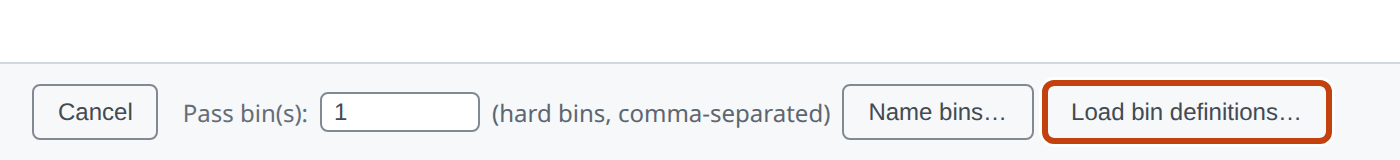
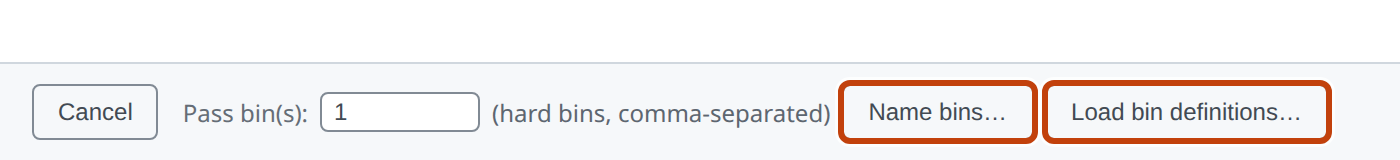
Add a log right-click menu and optimise dev builds
Right-clicking the log panel offers Select all and Copy all. The dev profile now optimises the parser crate and its dependencies, so a development run times like the app. The toolbar's Preferences and Help buttons are right-aligned before the script runs, and lesson 12's mapping screenshot outlines Name bins….

Changed region(s): [[0.5836, 0.5, 0.7679, 0.9062]]

diff --git a/src/logContextMenu.ts b/src/logContextMenu.ts
@@ -1,0 +1,59 @@
+// Right-click menu for the log panel: Select all and Copy all. The panel is a short scrolling box, so dragging a
+// selection over a long load log is awkward, and the log is what a bug report needs pasted whole.
+
+import { openAnchoredMenu, makeMenuRow } from './anchoredMenu';
+
+/** Select every entry in the log, so the reader can copy it with the keyboard or a native shortcut. */
+function selectAllEntries(list: HTMLElement): void {
+  const selection = window.getSelection();
+  if (!selection) return;
+  const range = document.createRange();
+  range.selectNodeContents(list);
+  selection.removeAllRanges();
+  selection.addRange(range);
+}
+
+/** The log as plain text, one entry a line. */
+function logText(list: HTMLElement): string {
+  return Array.from(list.children, entry => entry.textContent ?? '').join('\n');
+}
+
+async function copyAllEntries(list: HTMLElement): Promise<void> {
+  const text = logText(list);
+  try {
+    await navigator.clipboard.writeText(text);
+  } catch {
+    // No async clipboard in this webview: select the entries and let the browser's own copy command do it.
+    selectAllEntries(list);
+    document.execCommand('copy');
+  }
+}
+
+/**
+ * Open the menu at the pointer on a right-click anywhere in `panel`. The anchored menu hangs off an element, so a
+ * zero-size one is placed at the pointer and removed when the menu closes.
+ */
+export function wireLogContextMenu(panel: HTMLElement, list: HTMLElement): void {
+  let close: (() => void) | null = null;
+  panel.addEventListener('contextmenu', e => {
+    e.preventDefault();
+    close?.();
+    const at = document.createElement('div');
+    at.style.cssText = `position:fixed;left:${e.clientX}px;top:${e.clientY}px;width:0;height:0;pointer-events:none;`;
+    document.body.appendChild(at);
+    const empty = list.childElementCount === 0;
+    close = openAnchoredMenu(at, { stack: true, minWidth: '160px', onClose: () => { close = null; at.remove(); } }, (popup, dismiss) => {
+      popup.setAttribute('role', 'menu');
+      popup.appendChild(makeMenuRow(dismiss, {
+        label: 'Select all', enabled: !empty,
+        hint: empty ? 'The log is empty' : 'Select every entry in the log, ready to copy',
+        onClick: () => selectAllEntries(list),
+      }));
+      popup.appendChild(makeMenuRow(dismiss, {
+        label: 'Copy all', enabled: !empty,
+        hint: empty ? 'The log is empty' : 'Copy every entry in the log to the clipboard, one per line',
+        onClick: () => { void copyAllEntries(list); },
+      }));
+    });
+  });
+}

diff --git a/index.html b/index.html
@@ -1179,6 +1179,10 @@
       /* The right-hand group must never be the thing that scrolls out of view,
          so it can't shrink; everything to its left yields first. */
       #theme-select, #preferences-btn, #help-btn { flex-shrink: 0; }
+      /* Preferences starts the right-hand group until the theme picker (added by main.ts, which then carries the auto
+         margin itself) is in front of it, so the group is right-aligned before the script has run. */
+      #preferences-btn { margin-left: auto; }
+      #theme-select + #preferences-btn { margin-left: 0; }
       #toolbar-title { font-weight: 600; color: var(--text-secondary); margin-right: 4px; }
       @media (max-width: 1100px) { #drop-hint { display: none; } }
       @media (max-width: 700px)  { #toolbar-title { display: none; } }

diff --git a/src/main.ts b/src/main.ts
@@ -59,6 +59,7 @@ import { rememberSelection } from './testSelectionMemory';
 import { initPwa } from './pwa';
 import { TSMAP_GUIDE_HTML } from './guideExtension';
 import { UnseenProblems } from './logBadge';
+import { wireLogContextMenu } from './logContextMenu';
 import { session } from './session';
 import { runLoad, type LoadDeps, type LoadPhase, type SelectorResult } from './loadPipeline';
 
@@ -366,6 +367,7 @@ function log(level: LogLevel, msg: string) {
   else renderLogToggle();
 }
 
+wireLogContextMenu(logPanel, logList);
 const unseenProblems = new UnseenProblems();
 
 function renderLogToggle(): void {

diff --git a/CHANGELOG.md b/CHANGELOG.md
@@ -8,6 +8,7 @@ technical record, including internal changes.
 
 ### Added
 
+- **Right-click the log for Select all and Copy all.** The menu opens where you click in the log panel; **Copy all** puts every entry on the clipboard, one per line, ready to paste into a bug report.
 - **Bin definitions are edited in a table.** **Setup ▾ → Bin definitions…** lists every hard and soft bin the lot has, with its die count, a name, a pass toggle for hard bins and a colour. Edited rows are marked and each has a **Revert** button; ticked rows can be marked pass or fail together. **Load…** reads a definitions file into the table as edits, so it can be checked before **Apply**. A changed pass flag shows the lot's yield now and with the new pass bins, asks for confirmation and is logged; the die counts and yield are the map's own (retests by your policy, partial and edge-excluded dies left out). It applies to every loaded file, including a file that stated its own pass bins, and a bin the files disagreed about reads **Mixed** until you choose Pass or Fail for it.
 - **Saved settings can be exported and imported.** **Preferences → Export or import settings…** writes the saved column mappings to a JSON file and reads one back, merging layout by layout without a reload, and does the same for the theme, wafer-map preferences, pinned tests, saved plots and filters, remembered test selections and setup values. A settings import lists what the file holds and what each item replaces, takes only what is ticked, and reloads tsmap. Recent files, recent definitions, split assignments, the last folder scan and the timing switch are never exported, and a value tsmap cannot read is left out with a message. An edge exclusion is only imported with a wafer diameter to apply it to, and layouts saved for a file with an unnamed first column export and import like any other.
 - **One setup file for the lot-independent settings.** **Setup ▾ → Setup file…** saves and loads the wafer diameter, edge exclusion, reticle, retest policy and value filter as a single `setting,value` CSV, with recently used files behind the ▾, and **Help → Definitions file formats…** saves an example. A load changes only the settings the file states and applies at once; `--setup <file>` applies one for a launch without remembering it, before the individual flags so a flag still wins, and works on its own against an open window.

diff --git a/README.md b/README.md
@@ -192,6 +192,7 @@ src/
   session.ts          — the loaded lot (wafers, test/bin definitions, derived tests, scan state) as one object
   loadPipeline.ts     — the load flow (`runLoad`): archives, mapping, test scan + selector, parse, naming, append, render — dialogs and platform injected
   logBadge.ts         — the Log button's new-warning/new-error counts
+  logContextMenu.ts   — the log panel's right-click menu: Select all, Copy all
   resetSettingsUI.ts  — Preferences ▸ Reset saved settings… — shows what is stored and forgets it
   shortcutsUI.ts      — Help ▸ Keyboard shortcuts… (and the ? key) — the keys for maps, windows and menus
   recentDefinitions.ts   — recently used definitions files (tests/bins/splits), both platforms

diff --git a/docs/user-guide.md b/docs/user-guide.md
@@ -625,6 +625,8 @@ from the parser and renderer: file load events, parse warnings, and any errors.
   panel clears the count; the next problem shows it again.
 - Parser warnings (e.g. values outside the STDF ranges, unrecognised records) appear here
   rather than blocking the load.
+- Right-click in the panel for **Select all** and **Copy all**. **Copy all** puts every entry on the
+  clipboard, one per line, for pasting into a bug report.
 
 **Soft bin 65535** is the STDF value for "no soft bin assigned to this die". Those dies have
 no soft bin: they render as no-data in soft-bin views, and their hard bin is unaffected.

diff --git a/docs/learn/12-automation.md b/docs/learn/12-automation.md
@@ -187,7 +187,7 @@ STDF and ATDF name their bins; in a table every bin is a bare number until you l
 
 For those formats, name the bins in the column mapping before you continue: **Name bins…** opens the bin table over the bins in the sample of rows it holds (add a rare one by number), and **Load bin definitions…** reads a file. Both are next to **Pass bin(s)**.
 
-![The column mapping's footer, with Load bin definitions… outlined](images/12/mapping-bin-definitions.png)
+![The column mapping's footer, with Name bins… and Load bin definitions… outlined](images/12/mapping-bin-definitions.png)
 
 ---
 
